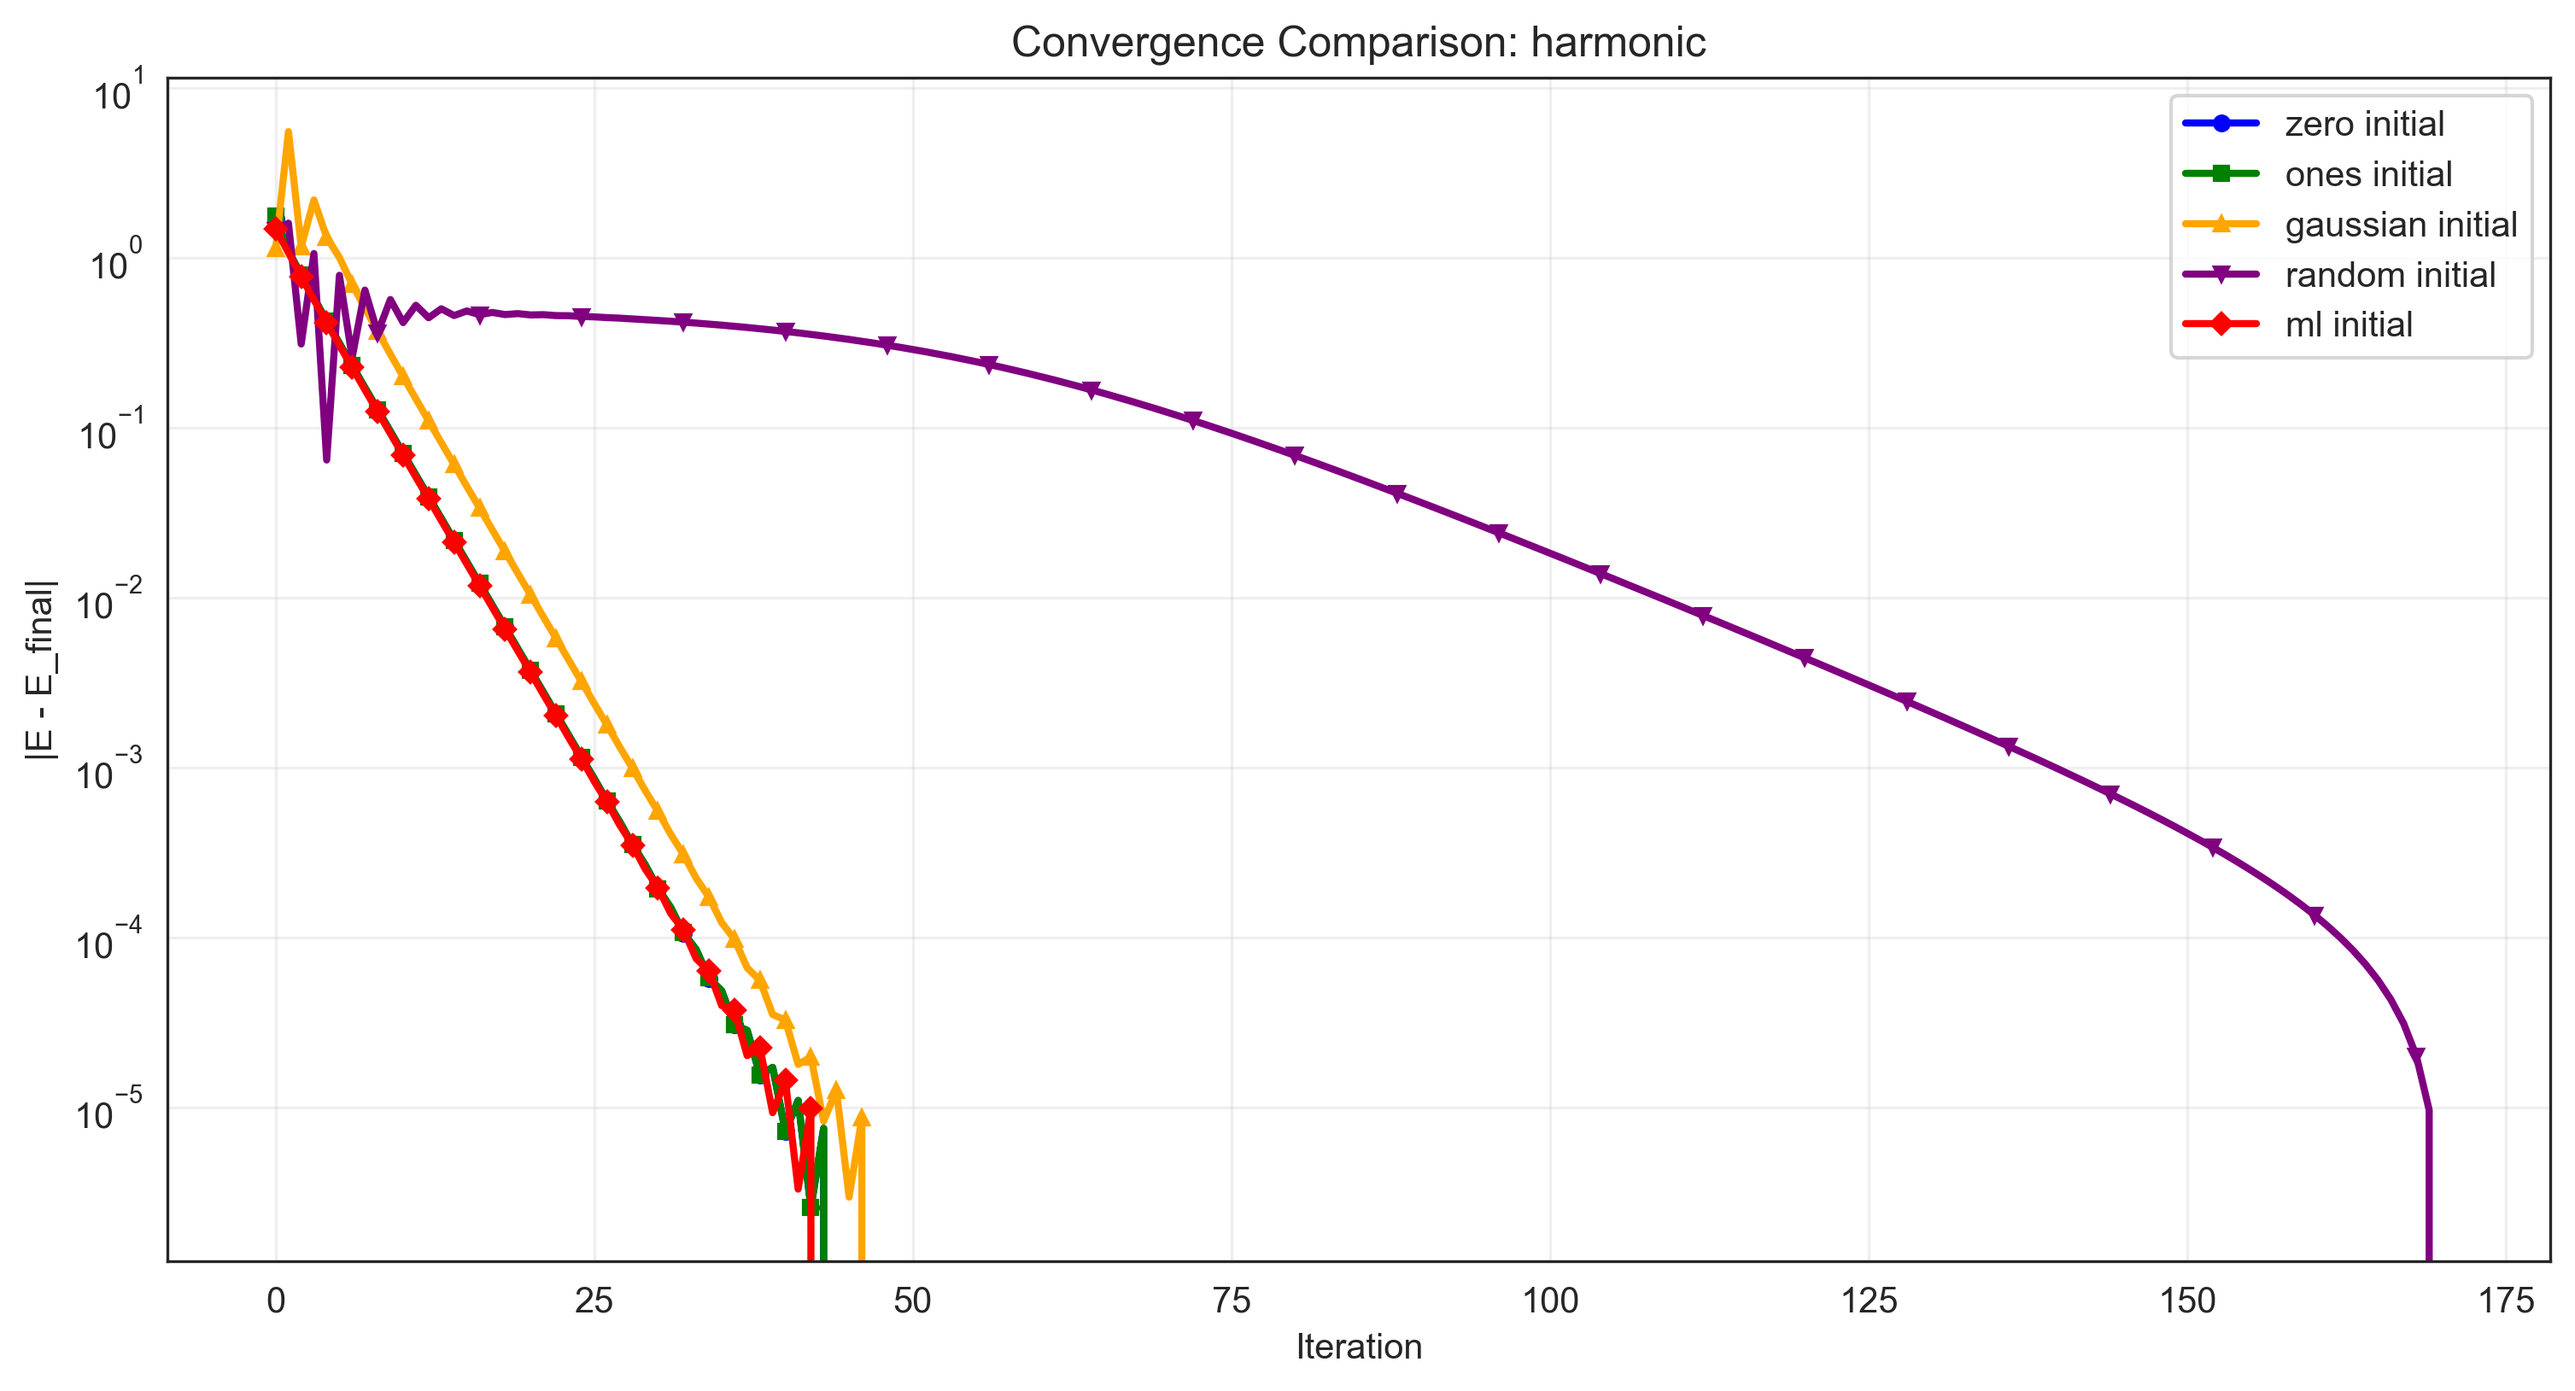
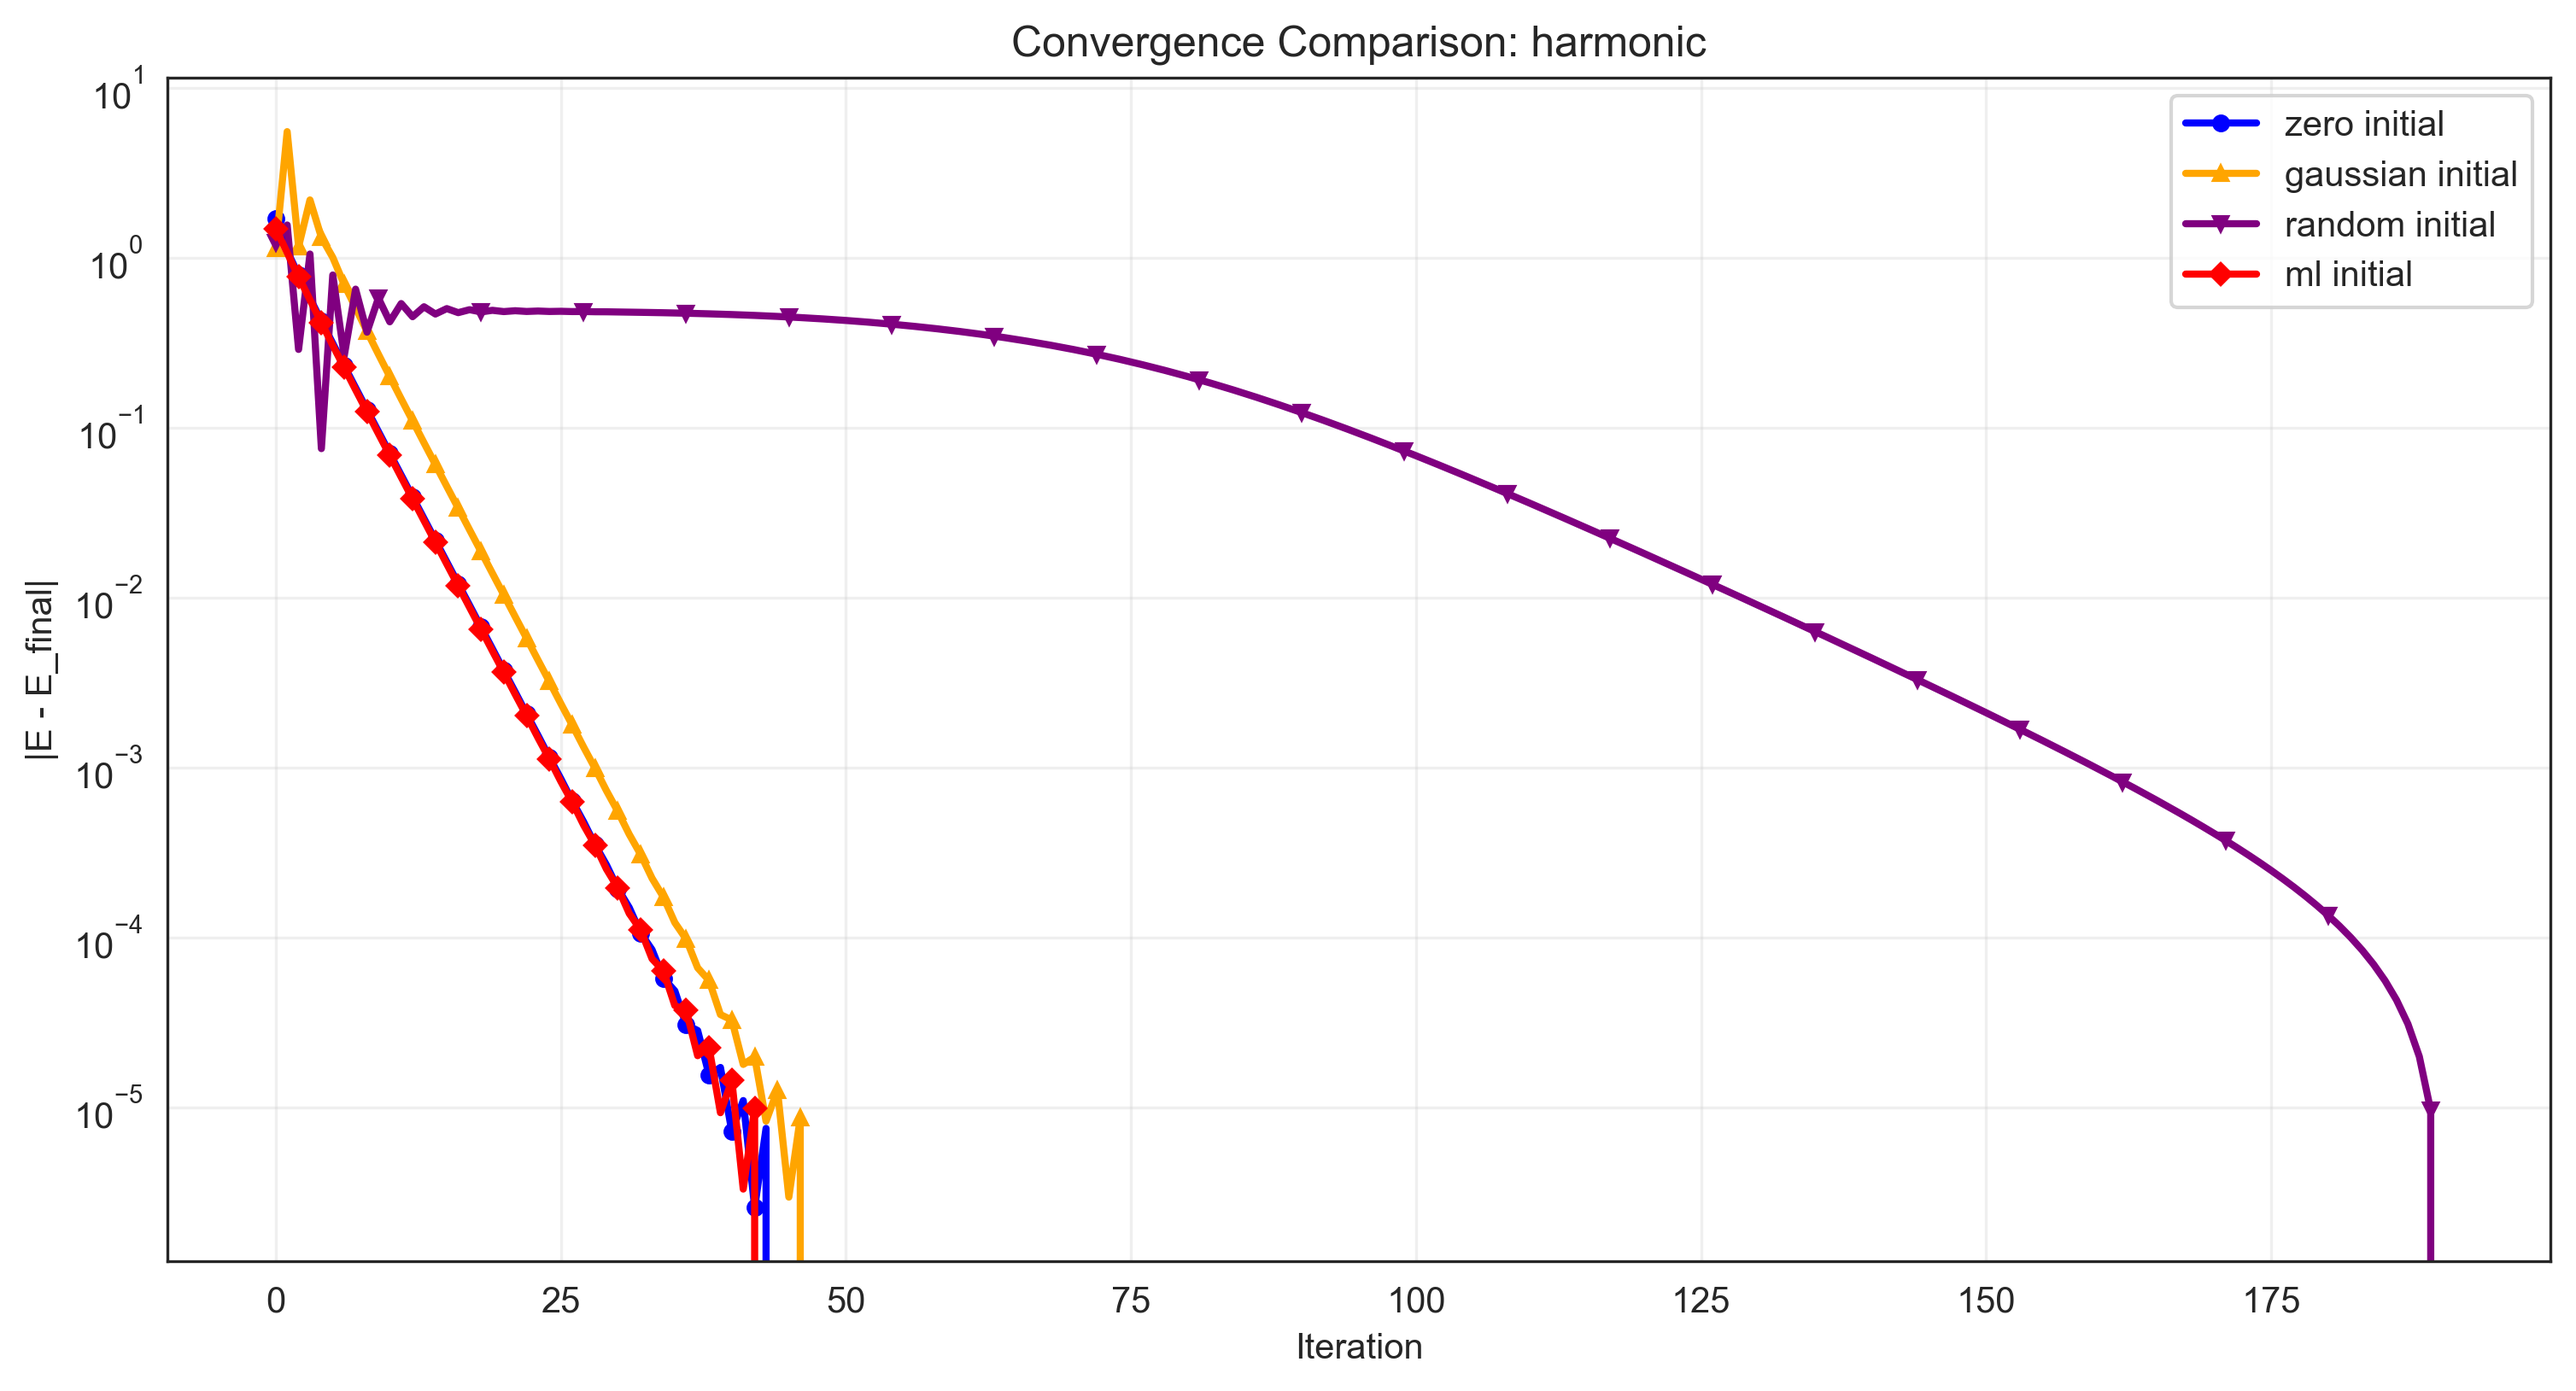
get rid of the ones

diff --git a/1d_dft_test_diff_potential_mlretrain.py b/1d_dft_test_diff_potential_mlretrain.py
@@ -314,7 +314,7 @@ def get_initial_guess(guess_type, x, V_external, W, num_electron):
     Generate different types of initial density guesses
     
     Parameters:
-    - guess_type: "zero", "ones", "gaussian", "random", "ml"
+    - guess_type: "zero", "gaussian", "random", "ml"
     - x: grid
     - V_external: external potential
     - W: ML weight matrix (only used for "ml")
@@ -325,10 +325,6 @@ def get_initial_guess(guess_type, x, V_external, W, num_electron):
     if guess_type == "zero":
         # All zeros
         nx = np.zeros_like(x)
-        
-    elif guess_type == "ones":
-        # Uniform density: all ones, then normalized
-        nx = np.ones_like(x)
         
     elif guess_type == "gaussian":
         # Gaussian centered at x=0 with width sigma=1
@@ -365,9 +361,8 @@ def get_initial_guess(guess_type, x, V_external, W, num_electron):
 ###############################################################################
 def compare_potentials(potential_types, num_electron=17, use_ml=True):
     """
-    Compare SCF convergence for different potentials with 5 different initial guesses:
+    Compare SCF convergence for different potentials with 4 different initial guesses:
     - zero: all zeros
-    - ones: uniform density
     - gaussian: Gaussian distribution
     - random: random values
     - ml: Machine learning prediction (trained separately for each potential type)
@@ -384,7 +379,7 @@ def compare_potentials(potential_types, num_electron=17, use_ml=True):
         print("="*70)
     
     # Define the initial guess types to test
-    guess_types = ["zero", "ones", "gaussian", "random", "ml"] if use_ml else ["zero", "ones", "gaussian", "random"]
+    guess_types = ["zero", "gaussian", "random", "ml"] if use_ml else ["zero", "gaussian", "random"]
     
     for pot_type in potential_types:
         print("\n" + "="*70)
@@ -445,8 +440,8 @@ def compare_potentials(potential_types, num_electron=17, use_ml=True):
         
         # Plot convergence comparison for all initial guesses
         plt.figure(figsize=(12, 6))
-        colors = {'zero': 'blue', 'ones': 'green', 'gaussian': 'orange', 'random': 'purple', 'ml': 'red'}
-        markers = {'zero': 'o', 'ones': 's', 'gaussian': '^', 'random': 'v', 'ml': 'D'}
+        colors = {'zero': 'blue', 'gaussian': 'orange', 'random': 'purple', 'ml': 'red'}
+        markers = {'zero': 'o', 'gaussian': '^', 'random': 'v', 'ml': 'D'}
         
         for guess_type in guess_types:
             hist = results[pot_type][guess_type]['history']
@@ -494,8 +489,8 @@ def plot_summary(results):
     
     # Plot 1: Iterations comparison
     x_pos = np.arange(len(pot_types))
-    width = 0.15  # Adjusted for 5 bars
-    colors = {'zero': 'skyblue', 'ones': 'lightgreen', 'gaussian': 'orange', 'random': 'purple', 'ml': 'salmon'}
+    width = 0.2  # Adjusted for 4 bars
+    colors = {'zero': 'skyblue', 'gaussian': 'orange', 'random': 'purple', 'ml': 'salmon'}
     
     for i, gt in enumerate(guess_types):
         offset = (i - len(guess_types)/2 + 0.5) * width
@@ -511,8 +506,8 @@ def plot_summary(results):
     
     # Plot 2: Savings percentage (relative to zero)
     x_pos = np.arange(len(pot_types))
-    width = 0.2  # Adjusted for 4 bars
-    colors_savings = {'ones': 'green', 'gaussian': 'orange', 'random': 'purple', 'ml': 'red'}
+    width = 0.25  # Adjusted for 3 bars
+    colors_savings = {'gaussian': 'orange', 'random': 'purple', 'ml': 'red'}
     
     for i, gt in enumerate([g for g in guess_types if g != 'zero']):
         offset = (i - (len(guess_types)-2)/2 + 0.5) * width
@@ -540,32 +535,29 @@ def plot_summary(results):
     plt.close()
     
     # Print comprehensive table
-    print("\n" + "="*130)
+    print("\n" + "="*110)
     print("COMPREHENSIVE SUMMARY TABLE")
-    print("="*130)
-    print(f"{'Potential':<20} {'Zero':<8} {'Ones':<8} {'Gaussian':<10} {'Random':<8} {'ML':<8} "
-          f"{'Ones vs Zero':<15} {'Gauss vs Zero':<15} {'Random vs Zero':<16} {'ML vs Zero':<15}")
-    print("─"*130)
+    print("="*110)
+    print(f"{'Potential':<20} {'Zero':<8} {'Gaussian':<10} {'Random':<8} {'ML':<8} "
+          f"{'Gauss vs Zero':<15} {'Random vs Zero':<16} {'ML vs Zero':<15}")
+    print("─"*110)
     
     for pot in pot_types:
         zero_i = results[pot]['zero']['iterations']
-        ones_i = results[pot]['ones']['iterations']
         gauss_i = results[pot]['gaussian']['iterations']
         random_i = results[pot]['random']['iterations']
         ml_i = results[pot]['ml']['iterations'] if 'ml' in results[pot] else 0
         
-        ones_sav = (zero_i - ones_i) / zero_i * 100 if zero_i > 0 else 0
         gauss_sav = (zero_i - gauss_i) / zero_i * 100 if zero_i > 0 else 0
         random_sav = (zero_i - random_i) / zero_i * 100 if zero_i > 0 else 0
         ml_sav = (zero_i - ml_i) / zero_i * 100 if zero_i > 0 and ml_i > 0 else 0
         
-        print(f"{pot:<20} {zero_i:<8} {ones_i:<8} {gauss_i:<10} {random_i:<8} {ml_i:<8} "
-              f"{ones_i-zero_i:>5} ({ones_sav:>5.1f}%)  "
+        print(f"{pot:<20} {zero_i:<8} {gauss_i:<10} {random_i:<8} {ml_i:<8} "
               f"{gauss_i-zero_i:>5} ({gauss_sav:>5.1f}%)  "
               f"{random_i-zero_i:>5} ({random_sav:>5.1f}%)   "
               f"{ml_i-zero_i:>5} ({ml_sav:>5.1f}%)")
     
-    print("="*130)
+    print("="*110)
 
 
 ###############################################################################
@@ -586,7 +578,7 @@ if __name__ == "__main__":
     
     print("="*70)
     print("TESTING DIFFERENT POTENTIAL TYPES")
-    print("Comparing 5 initial guesses: zero, ones, gaussian, random, ML")
+    print("Comparing 4 initial guesses: zero, gaussian, random, ML")
     print(f"Number of electrons: {num_electron}")
     print(f"Grid points: {n_grid}")
     print("="*70)
